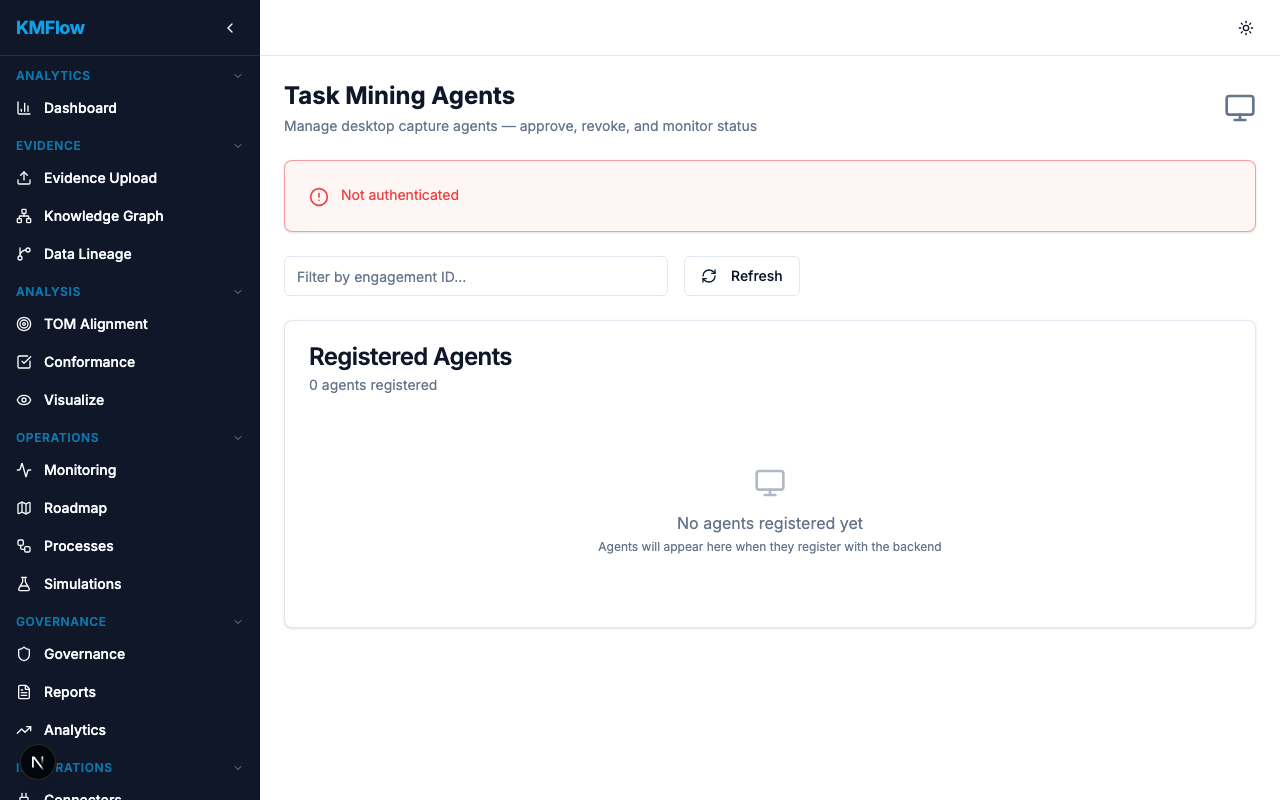
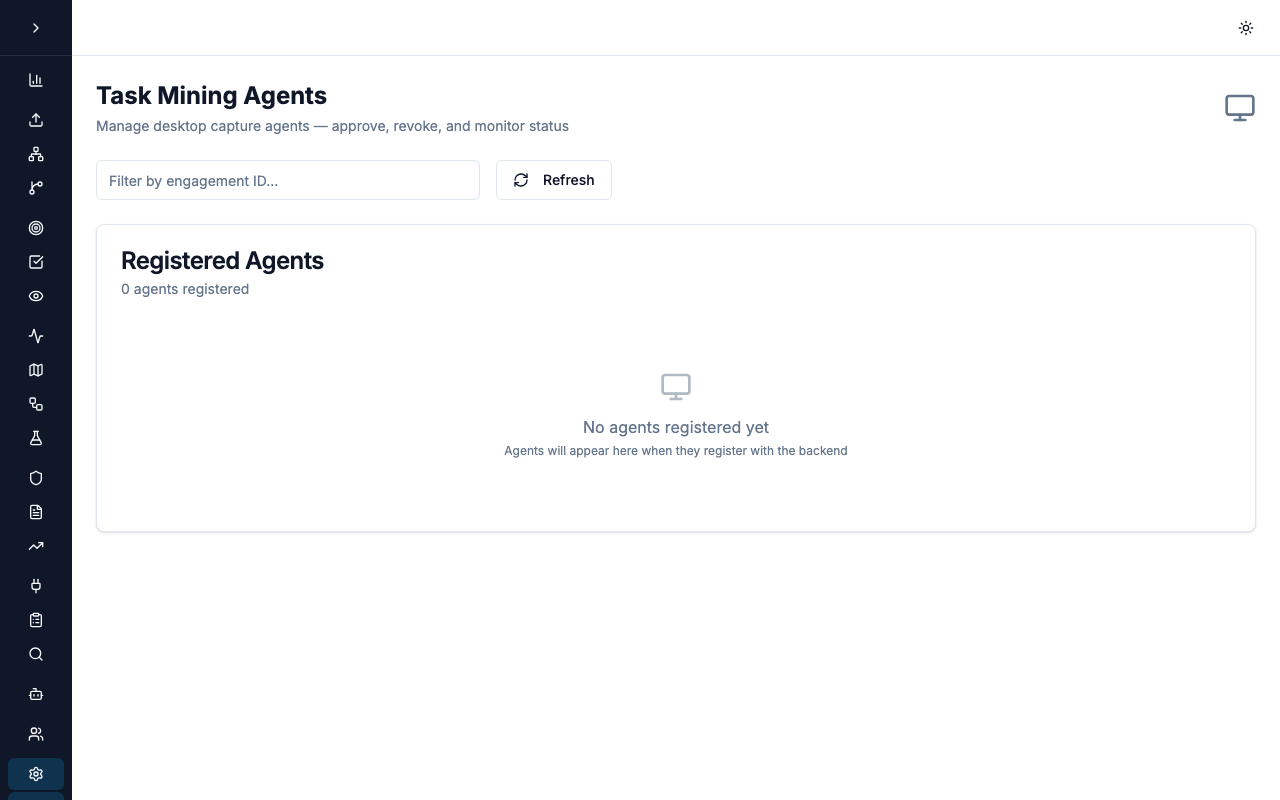
Fix presentation screenshots showing error states
Replace 8 screenshots that displayed "Not authenticated", "Something went
wrong", "Cannot read properties of undefined", "Reconnecting...", and
"Failed to load reference models" errors with clean renders showing proper
empty-state UI.

Also add null guard on dashboard agentsResult.agents to prevent the
"Cannot read properties of undefined (reading 'filter')" crash when the
agents array is undefined.

diff --git a/frontend/src/app/admin/task-mining/dashboard/page.tsx b/frontend/src/app/admin/task-mining/dashboard/page.tsx
@@ -91,7 +91,7 @@ export default function TaskMiningDashboard() {
         fetchAgents(debouncedEngagementId || undefined),
       ]);
       setStats(statsResult);
-      setAgents(agentsResult.agents.filter((a) => a.status === "approved"));
+      setAgents((agentsResult.agents ?? []).filter((a) => a.status === "approved"));
 
       if (debouncedEngagementId) {
         const usage = await fetchAppUsage(debouncedEngagementId, dateRange);
